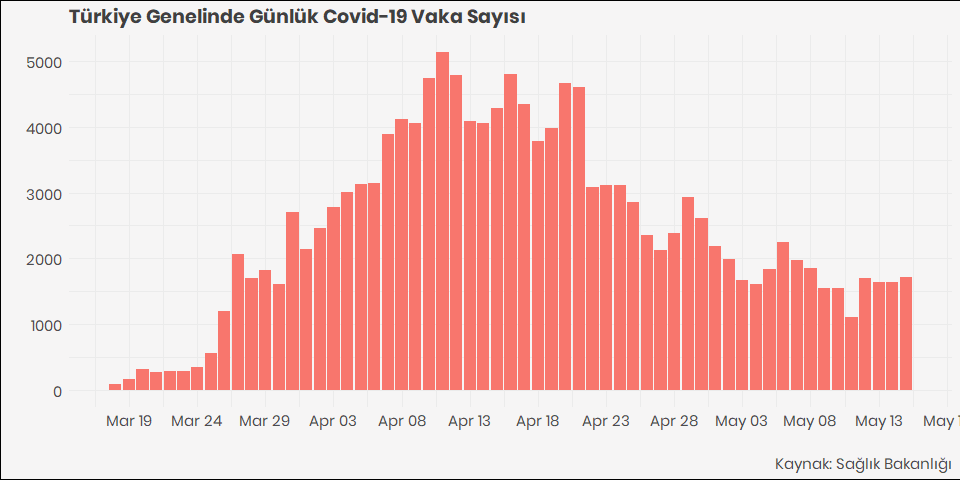
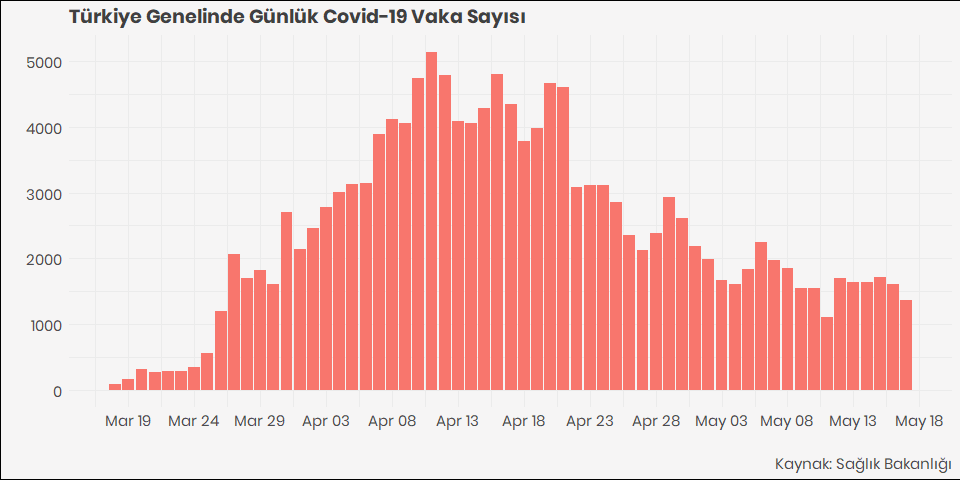
update_05_17

Changed region(s): [[0.125, 0.0938, 0.9688, 0.8125], [0.0938, 0.8438, 1.0, 0.9062]]

diff --git a/codes/kodlar.html b/codes/kodlar.html
@@ -382,7 +382,7 @@ summary {
 
 <h1 class="title toc-ignore">COVID-19 Türkiye Verileri | COVID - 19 TURKEY DATA</h1>
 <h4 class="author">Sadettin Demirel</h4>
-<h4 class="date">16 May, 2020</h4>
+<h4 class="date">18 May, 2020</h4>
 
 </div>
 
@@ -458,64 +458,6 @@ gunluk_vaka
 </tr>
 </thead>
 <tbody>
-<tr>
-<td style="text-align:left;">
-01.05.2020
-</td>
-<td style="text-align:right;">
-1075048
-</td>
-<td style="text-align:right;">
-122392
-</td>
-<td style="text-align:right;">
-3258
-</td>
-<td style="text-align:right;">
-1480
-</td>
-<td style="text-align:right;">
-818
-</td>
-<td style="text-align:right;">
-53808
-</td>
-<td style="text-align:right;">
-84
-</td>
-<td style="text-align:right;">
-2188
-</td>
-</tr>
-<tr>
-<td style="text-align:left;">
-02.05.2020
-</td>
-<td style="text-align:right;">
-1111366
-</td>
-<td style="text-align:right;">
-124375
-</td>
-<td style="text-align:right;">
-3336
-</td>
-<td style="text-align:right;">
-1445
-</td>
-<td style="text-align:right;">
-778
-</td>
-<td style="text-align:right;">
-58259
-</td>
-<td style="text-align:right;">
-78
-</td>
-<td style="text-align:right;">
-1983
-</td>
-</tr>
 <tr>
 <td style="text-align:left;">
 03.05.2020
@@ -891,6 +833,64 @@ gunluk_vaka
 </td>
 <td style="text-align:right;">
 1708
+</td>
+</tr>
+<tr>
+<td style="text-align:left;">
+16.05.2020
+</td>
+<td style="text-align:right;">
+1589625
+</td>
+<td style="text-align:right;">
+148067
+</td>
+<td style="text-align:right;">
+4096
+</td>
+<td style="text-align:right;">
+906
+</td>
+<td style="text-align:right;">
+474
+</td>
+<td style="text-align:right;">
+108137
+</td>
+<td style="text-align:right;">
+41
+</td>
+<td style="text-align:right;">
+1610
+</td>
+</tr>
+<tr>
+<td style="text-align:left;">
+17.05.2020
+</td>
+<td style="text-align:right;">
+1624994
+</td>
+<td style="text-align:right;">
+149435
+</td>
+<td style="text-align:right;">
+4140
+</td>
+<td style="text-align:right;">
+914
+</td>
+<td style="text-align:right;">
+468
+</td>
+<td style="text-align:right;">
+109962
+</td>
+<td style="text-align:right;">
+44
+</td>
+<td style="text-align:right;">
+1368
 </td>
 </tr>
 </tbody>

diff --git a/README.md b/README.md
@@ -100,122 +100,6 @@ gunluk\_vaka
 
 <td style="text-align:left;">
 
-26.04.2020
-
-</td>
-
-<td style="text-align:right;">
-
-889742
-
-</td>
-
-<td style="text-align:right;">
-
-110130
-
-</td>
-
-<td style="text-align:right;">
-
-2805
-
-</td>
-
-<td style="text-align:right;">
-
-1776
-
-</td>
-
-<td style="text-align:right;">
-
-883
-
-</td>
-
-<td style="text-align:right;">
-
-29140
-
-</td>
-
-<td style="text-align:right;">
-
-99
-
-</td>
-
-<td style="text-align:right;">
-
-2357
-
-</td>
-
-</tr>
-
-<tr>
-
-<td style="text-align:left;">
-
-27.04.2020
-
-</td>
-
-<td style="text-align:right;">
-
-918885
-
-</td>
-
-<td style="text-align:right;">
-
-112261
-
-</td>
-
-<td style="text-align:right;">
-
-2900
-
-</td>
-
-<td style="text-align:right;">
-
-1736
-
-</td>
-
-<td style="text-align:right;">
-
-882
-
-</td>
-
-<td style="text-align:right;">
-
-33791
-
-</td>
-
-<td style="text-align:right;">
-
-95
-
-</td>
-
-<td style="text-align:right;">
-
-2131
-
-</td>
-
-</tr>
-
-<tr>
-
-<td style="text-align:left;">
-
 28.04.2020
 
 </td>
@@ -1251,6 +1135,122 @@ gunluk\_vaka
 <td style="text-align:right;">
 
 1708
+
+</td>
+
+</tr>
+
+<tr>
+
+<td style="text-align:left;">
+
+16.05.2020
+
+</td>
+
+<td style="text-align:right;">
+
+1589625
+
+</td>
+
+<td style="text-align:right;">
+
+148067
+
+</td>
+
+<td style="text-align:right;">
+
+4096
+
+</td>
+
+<td style="text-align:right;">
+
+906
+
+</td>
+
+<td style="text-align:right;">
+
+474
+
+</td>
+
+<td style="text-align:right;">
+
+108137
+
+</td>
+
+<td style="text-align:right;">
+
+41
+
+</td>
+
+<td style="text-align:right;">
+
+1610
+
+</td>
+
+</tr>
+
+<tr>
+
+<td style="text-align:left;">
+
+17.05.2020
+
+</td>
+
+<td style="text-align:right;">
+
+1624994
+
+</td>
+
+<td style="text-align:right;">
+
+149435
+
+</td>
+
+<td style="text-align:right;">
+
+4140
+
+</td>
+
+<td style="text-align:right;">
+
+914
+
+</td>
+
+<td style="text-align:right;">
+
+468
+
+</td>
+
+<td style="text-align:right;">
+
+109962
+
+</td>
+
+<td style="text-align:right;">
+
+44
+
+</td>
+
+<td style="text-align:right;">
+
+1368
 
 </td>
 
